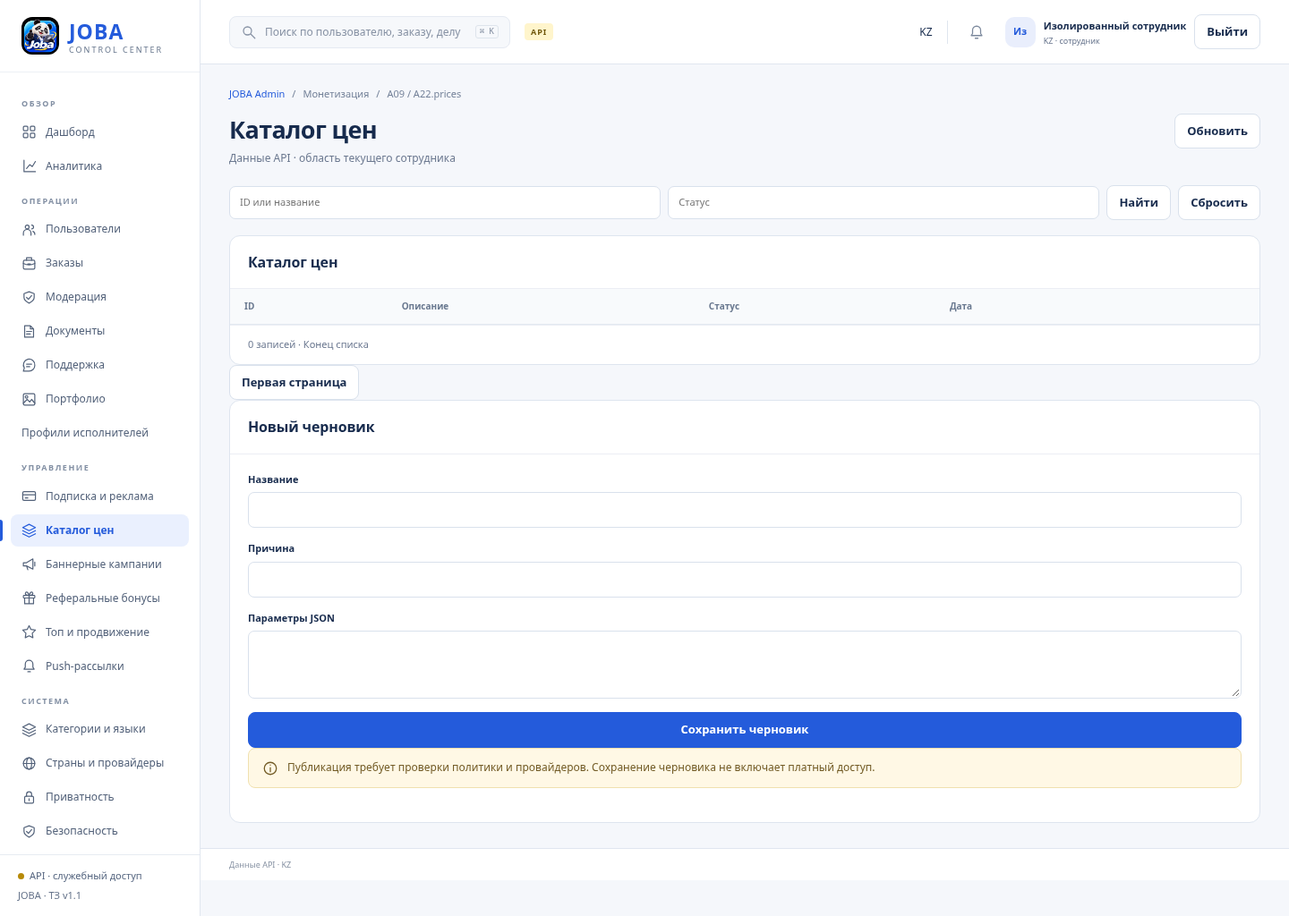
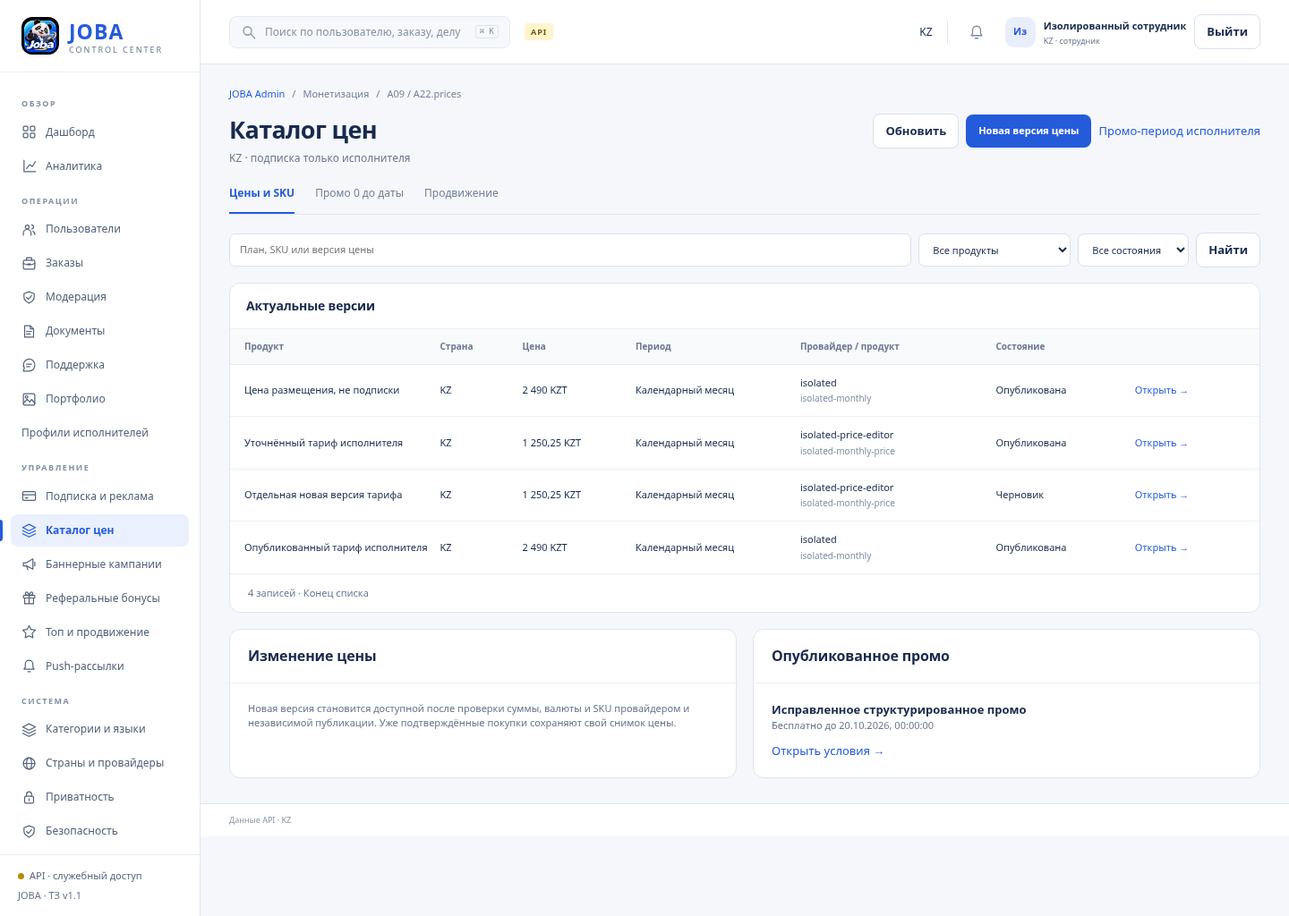
Implement structured price catalog with verified SKU and independent publication

diff --git a/apps/admin/price-workspace.js b/apps/admin/price-workspace.js
@@ -1,0 +1,24 @@
+const currencies={KZ:'KZT',KG:'KGS',RU:'RUB',BY:'BYN'},zones={KZ:'Asia/Almaty',KG:'Asia/Bishkek',RU:'Europe/Moscow',BY:'Europe/Minsk'},periods={week:'7 суток',month:'Календарный месяц',year:'Календарный год',days:'Число суток'},states={draft:'Черновик',effective:'Опубликована',superseded:'Заменена',stopped:'Остановлена'};
+export async function priceWorkspace({key,api,esc,card,note,tablecard,country,actorId,onRefresh}){
+ const params=new URLSearchParams(location.hash.split('?')[1]||''),data=await api('/admin/price-versions?'+new URLSearchParams({limit:'20',...Object.fromEntries(['cursor','q','status','product_type'].filter(k=>params.get(k)).map(k=>[k,params.get(k)]))}));
+ const promos=await api('/admin/promotions?status=effective&limit=1'),promo=promos.items[0];
+ const r=params.get('id')?(data.items.find(x=>x.id===params.get('id'))||await api('/admin/price-versions/'+encodeURIComponent(params.get('id')))):undefined,p=r?.payload||{},own=r?.owner===actorId&&r.status==='draft';
+ const input=(label,name,value,type='text',attrs='')=>`<div class="formfield"><label for="price-${name}">${label}</label><input id="price-${name}" name="${name}" value="${esc(value??'')}" type="${type}" ${attrs}></div>`;
+ const options=(name,values,value)=>`<select id="price-${name}" name="${name}">${Object.entries(values).map(([k,label])=>`<option value="${k}" ${value===k?'selected':''}>${label}</option>`).join('')}</select>`;
+ const command=r?`<form id="price-command" class="stack"><label for="price-action-reason">Основание действия</label><textarea id="price-action-reason" name="reason" minlength="10" maxlength="1000" required></textarea><div class="actions"><button value="validate">Проверить синхронизацию</button><button value="preview">Предпросмотр влияния</button>${r.status==='draft'?'<button value="publish" class="primary">Опубликовать другим сотрудником</button>':r.status==='effective'?'<button value="stop">Остановить продажи версии</button><button value="rollback">Черновик отката</button>':'<button value="rollback">Черновик отката</button>'}</div><div role="alert"></div><div role="status"></div></form>`:'';
+ const amountInput=amount=>Number.isSafeInteger(amount)&&amount>=0?`${Math.trunc(amount/100)}.${String(amount%100).padStart(2,'0')}`:'';
+ const money=x=>{if(!Number.isSafeInteger(x.amount_minor)||!Object.values(currencies).includes(x.currency))return 'Не задана';const symbol=new Intl.NumberFormat('ru',{style:'currency',currency:x.currency}).formatToParts(0).find(p=>p.type==='currency').value;return new Intl.NumberFormat('ru',{maximumFractionDigits:0}).format(Math.trunc(x.amount_minor/100))+(x.amount_minor%100?','+String(x.amount_minor%100).padStart(2,'0'):'')+' '+symbol;};
+ return {key,id:'A09 / A22.prices',title:'Каталог цен',subtitle:country+' · подписка только исполнителя'+(r?' · v'+r.version:''),section:'Монетизация',actions:'<button id="refresh-data">Обновить</button><a class="price-primary" href="#pricing?new=1">Новая версия цены</a><a class="btn" href="#promo">Промо-период исполнителя</a>',
+ body:()=>`<div class="tabs"><a class="active" href="#pricing">Цены и SKU</a><a href="#promo">Промо 0 до даты</a><a href="#boosts">Продвижение</a></div><form id="price-filter" class="filters"><input aria-label="Поиск цен" name="q" value="${esc(params.get('q')||'')}" placeholder="План, SKU или версия цены"><select aria-label="Тип продукта" name="product_type"><option value="">Все продукты</option><option value="subscription" ${params.get('product_type')==='subscription'?'selected':''}>Подписка исполнителя</option><option value="boost" ${params.get('product_type')==='boost'?'selected':''}>Продвижение</option></select><select aria-label="Состояние цены" name="status"><option value="">Все состояния</option>${Object.entries(states).map(([k,label])=>`<option value="${k}" ${params.get('status')===k?'selected':''}>${label}</option>`).join('')}</select><button>Найти</button></form>`+'<div class="price-list">'+tablecard('Актуальные версии',['Продукт','Страна','Цена','Период','Провайдер / продукт','Состояние',''],data.items.map(x=>[esc(x.title),esc(x.country),esc(money(x.payload)),esc(periods[x.payload.period]||'Не задан'),`${esc(x.payload.provider)}<span class="sub">${esc(x.payload.product_id)}</span>`,esc(states[x.status]||x.status),`<a href="#pricing?id=${encodeURIComponent(x.id)}">Открыть →</a>`]),'',`${data.items.length} записей · ${data.meta?.next_cursor?'Есть следующая страница':'Конец списка'}`)+'</div>'+(data.meta?.next_cursor?`<a class="btn" href="#pricing?${esc(new URLSearchParams({q:params.get('q')||'',status:params.get('status')||'',product_type:params.get('product_type')||'',cursor:data.meta.next_cursor}))}">Следующая страница</a>`:'')+(params.has('id')||params.has('new')?`<div class="grid split mt"><form id="price-editor" class="stack">${card(r?'Редактор версии':'Новый черновик цены',`<div class="formgrid">${input('Название','title',r?.title,'text','required minlength="3" maxlength="120"')}${input('Страна','country',country,'text','readonly')}<div class="formfield"><label for="price-product_type">Продукт</label>${options('product_type',{subscription:'Подписка исполнителя',boost:'Продвижение'},p.product_type||'subscription')}</div>${input('Доступ к продукту','role','Только исполнителю','text','readonly')}${input('Цена · '+currencies[country],'amount',amountInput(p.amount_minor),'text','required inputmode="decimal" pattern="[0-9]+([.,][0-9]{1,2})?"')}${input('Валюта','currency',currencies[country],'text','readonly')}<div class="formfield"><label for="price-period">Период</label>${options('period',periods,p.period||'month')}</div>${input('Суток в периоде','duration_days',p.duration_days||7,'number','min="1" max="366"')}${input('Платёжный провайдер','provider',p.provider,'text','required maxlength="120"')}${input('Идентификатор продукта / SKU','product_id',p.product_id,'text','required maxlength="120"')}${input('Часовой пояс','time_zone',zones[country],'text','readonly')}${input('Причина изменения','reason','','text','required minlength="5" maxlength="1000"')}</div><button class="primary">${own?'Сохранить черновик':'Создать новый черновик'}</button><div role="alert"></div>`)}</form><div class="stack">${note('Заказчики пользуются сервисом бесплатно. Подписка относится только к исполнителю. Продвижение — отдельный продукт.')}${card('Синхронизация',`<p>Сохранение не включает продажи. Сумма, валюта и идентификатор продукта должны быть подтверждены реальным провайдером.</p>${command||'<p class="tiny muted">Сначала сохраните черновик.</p>'}`)}${card('Влияние','<div id="price-impact">Проверка ещё не выполнена.</div>')}${note('Новая цена не меняет снимки уже подтверждённых покупок. Остановка версии не отзывает выданные права.','warn')}</div></div>`:`<div class="grid cols2 mt">${card('Изменение цены','<p class="tiny muted">Новая версия становится доступной после проверки суммы, валюты и SKU провайдером и независимой публикации. Уже подтверждённые покупки сохраняют свой снимок цены.</p>')}${card('Опубликованное промо',promo?`<b>${esc(promo.title)}</b><p class="tiny muted">${promo.preview?.promo_end_exclusive?'Бесплатно до '+esc(new Date(promo.preview.promo_end_exclusive).toLocaleString('ru',{timeZone:promo.payload.time_zone})):'Срок не рассчитан'}</p><a href="#promo?id=${encodeURIComponent(promo.id)}">Открыть условия →</a>`:'<p class="tiny muted">Опубликованных промо нет.</p><a href="#promo">Создать промо →</a>')}</div>`),
+ bind(){
+ document.getElementById('price-filter').onsubmit=e=>{e.preventDefault();location.hash='pricing?'+new URLSearchParams(new FormData(e.currentTarget));};
+ const form=document.getElementById('price-editor');if(!form)return;const commands=document.getElementById('price-command');let dirty=false;
+ const constrain=()=>{const subscription=form.elements.product_type.value==='subscription';form.elements.role.value=subscription?'Только исполнителю':'Заказчику или исполнителю';for(const option of form.elements.period.options)option.disabled=subscription&&['week','days'].includes(option.value);if(form.elements.period.selectedOptions[0].disabled)form.elements.period.value='month';form.elements.duration_days.disabled=form.elements.period.value!=='days';form.elements.duration_days.required=!form.elements.duration_days.disabled;};form.elements.product_type.onchange=constrain;form.elements.period.onchange=constrain;constrain();
+ form.oninput=e=>{if(commands&&e.target.name!=='reason'){dirty=true;commands.querySelectorAll('button').forEach(b=>b.disabled=true);commands.querySelector('[role=status]').textContent='Сохраните изменения перед проверкой.';}};
+ form.onsubmit=async e=>{e.preventDefault();const values=Object.fromEntries(new FormData(form)),parts=values.amount.replace(',','.').split('.'),amount_minor=Number(parts[0])*100+Number((parts[1]||'').padEnd(2,'0')),payload={product_type:values.product_type,amount_minor,currency:values.currency,provider:values.provider,product_id:values.product_id,period:values.period,time_zone:values.time_zone,...(values.period==='days'?{duration_days:Number(values.duration_days)}:{})};const controls=[...form.querySelectorAll('input,select,button')];controls.forEach(x=>x.disabled=true);form.querySelector('[role=alert]').textContent='';
+ try{const saved=await api('/admin/price-versions'+(own?'/'+r.id:''),own?'PATCH':'POST',{title:values.title,reason:values.reason,payload,...(own?{expected_version:r.version}:{})});if(params.get('id')===saved.id)await onRefresh();else location.hash='pricing?id='+encodeURIComponent(saved.id);}catch(error){form.querySelector('[role=alert]').textContent=error.message;controls.forEach(x=>x.disabled=false);constrain();}
+ };
+ if(commands)commands.onsubmit=async e=>{e.preventDefault();if(dirty)return;const action=e.submitter.value;commands.querySelectorAll('button').forEach(b=>b.disabled=true);commands.querySelector('[role=alert]').textContent='';try{const result=await api('/admin/price-versions/'+r.id+'/'+action,'POST',{expected_version:r.version,reason:new FormData(commands).get('reason')});if(['validate','preview'].includes(action)){commands.querySelector('[role=status]').textContent='Сохранённая версия проверена провайдером.';document.getElementById('price-impact').textContent=action==='preview'?`Страна ${result.country}; активных аккаунтов ${result.country_active_accounts}; версия ${result.source_version}. Предпросмотр не применяет цену.`:'Продукт, сумма и валюта подтверждены.';}else if(action==='rollback')location.hash='pricing?id='+encodeURIComponent(result.id);else await onRefresh();}catch(error){commands.querySelector('[role=alert]').textContent=error.message;}finally{if(!dirty)commands.querySelectorAll('button').forEach(b=>b.disabled=false);}};
+ }
+ };
+}

diff --git a/apps/admin/runtime.js b/apps/admin/runtime.js
@@ -1,3 +1,4 @@
+import {priceWorkspace} from './price-workspace.js';
 import {documentPolicyWorkspace} from './document-policy-workspace.js';
 import {bannerWorkspace} from './banner-workspace.js';
 import {promotionWorkspace} from './promotion-workspace.js';
@@ -19,7 +20,7 @@ const {routes,render,card,tablecard,field,note,metric,badge}=window.JOBA_ADMIN;
 const designMode=new URLSearchParams(location.search).has('design');
 const esc=v=>String(v??'').replace(/[&<>"']/g,c=>({'&':'&amp;','<':'&lt;','>':'&gt;','"':'&quot;',"'":'&#39;'}[c]));
 let session,loginDraft,cache={},error='',generation=0,disposeWorkspace;
-const privateWorkspaces=new Set([...pushRoutes,...scenarioRoutes,...userRoutes,'verificationPolicies','retention','campaigns','banner-detail','branding-build','boosts','boost-grant','analytics','dashboard','security','jobs','scheduled','job-detail','branding','countries','monetization','settings','legal']);
+const privateWorkspaces=new Set([...pushRoutes,...scenarioRoutes,...userRoutes,'prices','pricing','verificationPolicies','retention','campaigns','banner-detail','branding-build','boosts','boost-grant','analytics','dashboard','security','jobs','scheduled','job-detail','branding','countries','monetization','settings','legal']);
 const cursors={},filters={},configRoutes=new Set(['prices','pricing','monetization','push','referrals','dictionaries','dictionary','categories','ranking','placements','verificationPolicies','retention']);
 const sections={users:['users','Аккаунты'],orders:['orders','Заказы'],support:['support-threads','Поддержка'],'support-recovery':['recovery-threads','Восстановление доступа'],moderation:['cases','Дела'],portfolio:['portfolio','Портфолио'],contractors:['contractors','Профили исполнителей'],privacy:['privacy-requests','Запросы приватности'],blacklist:['blacklist','Черный список'],audit:['audit','Аудит'],prices:['price-versions','Цены'],monetization:['monetization-configs','Монетизация'],push:['push-campaigns','Рассылки'],referrals:['referral-campaigns','Реферальные кампании'],dictionaries:['moderation-dictionaries','Словари'],categories:['categories','Категории'],ranking:['ranking-configs','Рейтинг'],pricing:['price-versions','Каталог цен'],campaigns:['banner-campaigns','Кампании'],dictionary:['moderation-dictionaries','Запрещенные слова'],verification:['verifications','Проверка документов'],top100:['boost-reports','Топ и продвижение'],placements:['placement-policies','Размещения'],verificationPolicies:['verification-policies','Правила проверки'],retention:['retention-policies','Сроки хранения']};
 function clearStaffState(){
@@ -109,11 +110,11 @@ async function draw(reload=true) {
       if(key==='countries')routes[key]=await countryWorkspace({key,api:request,esc,card,note,badge,namedField,onRefresh:()=>draw()});
       if(['analytics','dashboard','security','jobs','scheduled','job-detail'].includes(key))routes[key]=await systemWorkspace({key,api:request,esc,card,tablecard,note,metric,badge,onRefresh:()=>draw()});
       if(key==='security')routes[key].actions+='<a class="btn" href="#security-full">Защищённый просмотр</a>';
-      if(sections[key]&&!pushRoutes.has(key)&&!['campaigns','verificationPolicies','retention'].includes(key))cache[key]=await request('/admin/'+sections[key][0]+'?'+new URLSearchParams({...filters[key],...(cursors[key]?{cursor:cursors[key]}:{})}));
+      if(sections[key]&&!pushRoutes.has(key)&&!['campaigns','verificationPolicies','retention','prices','pricing'].includes(key))cache[key]=await request('/admin/'+sections[key][0]+'?'+new URLSearchParams({...filters[key],...(cursors[key]?{cursor:cursors[key]}:{})}));
       if(['verificationPolicies','retention'].includes(key))routes[key]=await documentPolicyWorkspace({key,api:request,esc,card,note,tablecard,country:session.user.country,actorId:session.user.id,onRefresh:()=>draw()});
       if(['campaigns','banner-detail'].includes(key))routes[key]=await bannerWorkspace({key,api:request,files:{upload:async file=>{if(g!==generation)throw Error('Экран изменился');const result=await api.upload(file,'banner');if(g!==generation)throw Error('Экран изменился');return result;},download:async path=>{if(g!==generation)throw Error('Экран изменился');const result=await api.download(path);if(g!==generation)throw Error('Экран изменился');return result;}},esc,card,note,tablecard,country:session.user.country,actorId:session.user.id,onRefresh:()=>draw()});
       if(['promo','promo-preview'].includes(key))routes[key]=await promotionWorkspace({key,api:request,esc,card,note,tablecard,country:session.user.country,actorId:session.user.id,onRefresh:()=>draw()});
-      if(['pricing','prices'].includes(key))routes[key].actions='<a class="btn primary" href="#promo">Промо-период исполнителя</a>';
+      if(['pricing','prices'].includes(key))routes[key]=await priceWorkspace({key,api:request,esc,card,note,tablecard,country:session.user.country,actorId:session.user.id,onRefresh:()=>draw()});
       if(key==='monetization')routes[key]=await monetizationWorkspace({key,api:request,esc,card,note,metric,badge,namedField,onRefresh:()=>draw()});
       if(['settings','legal'].includes(key)||key.startsWith('recovery-live/'))routes[key]=await operationsWorkspace({key,api:request,esc,card,note,namedField,onRefresh:()=>draw()});
       if(userRoutes.has(key)||key.startsWith('record-live/users/'))routes[key]=await userWorkspace({key,api:request,esc,card,tablecard,note,badge,namedField,sections,onRefresh:()=>draw()});

diff --git a/services/api/src/marketplace.ts b/services/api/src/marketplace.ts
@@ -1,3 +1,4 @@
+import {pricePayload} from './price-payload';
 import {countryEnabled} from './country-access';
 import {bannerCampaigns} from './banner-campaigns';
 import {accountRestrictionJobs} from './account-restriction-jobs';
@@ -1277,8 +1278,14 @@ export class Marketplace {
       const configKinds=['monetization-configs','price-versions','categories','push-campaigns','referral-campaigns','moderation-dictionaries','ranking-configs','promotions','placement-policies','verification-policies','retention-policies','country-controls'];
       if(configKinds.includes(section)&&method==='POST'&&path.split('/').length===3) {
         if(section==='moderation-dictionaries'){try{validateRules(b.payload?.rules);}catch(e:any){fail(400,'VALIDATION_ERROR',e.message);}}
-        const r=this.record(kinds[section],a,{title:text(b,'title',3,120),status:'draft',payload:section==='push-campaigns'?normalizePushPayload(b.payload??{}):section==='promotions'?normalizePromotionPayload(b.payload??{}):b.payload??{}});
+        const r=this.record(kinds[section],a,{title:text(b,'title',3,120),status:'draft',payload:section==='price-versions'?pricePayload(b.payload,a.country):section==='push-campaigns'?normalizePushPayload(b.payload??{}):section==='promotions'?normalizePromotionPayload(b.payload??{}):b.payload??{}});
         await this.store.put(r);await this.audit(a,section+'.draft',r.id,text(b,'reason',5,1000));return r;
+      }
+      const editPrice=path.match(/^\/admin\/price-versions\/([^/]+)$/);
+      if(editPrice&&['GET','PATCH'].includes(method)){
+        const r=await this.object(editPrice[1],a,'price_version');if(method==='GET')return r;
+        this.version(r,b);if(r.owner!==a.id||r.status!=='draft')fail(409,'STATE_CONFLICT','Создайте новую версию цены');
+        const result=await this.store.put({...r,title:text(b,'title',3,120),payload:pricePayload(b.payload,a.country),preview:undefined,version:r.version+1});await this.audit(a,'prices.edited',r.id,text(b,'reason',5,1000));return result;
       }
       const editDocumentPolicy=path.match(/^\/admin\/(verification-policies|retention-policies)\/([^/]+)$/);
       if(editDocumentPolicy&&['GET','PATCH'].includes(method)){
@@ -1358,7 +1365,7 @@ export class Marketplace {
       if(configurationCommand&&configKinds.includes(section)&&method==='POST') {
         const r=await this.object(configurationCommand[2],a,kinds[section]);
         if(configurationCommand[3]==='preview'){this.version(r,b);const reason=text(b,'reason',10,1000);const preview=await this.configuration.preview(r);await this.audit(a,'configuration.preview',r.id,reason);return preview;}
-        if(configurationCommand[3]==='validate'){if(['verification_policy','retention_policy'].includes(r.kind))this.version(r,b);return this.configuration.validate(r);}
+        if(configurationCommand[3]==='validate'){if(['verification_policy','retention_policy','price_version'].includes(r.kind))this.version(r,b);const result=await this.configuration.validate(r);if(r.kind==='price_version')await this.audit(a,'prices.validated',r.id,text(b,'reason',10,1000));return result;}
         const result=await this.configuration.publish(r,a.id,b.expected_version);await this.audit(a,section+'.published',r.id,text(b,'reason',10,1000));return result;
       }
       const configurationStop=path.match(/^\/admin\/([^/]+)\/([^/]+)\/(stop|cancel|rollback)$/);
@@ -1414,7 +1421,7 @@ export class Marketplace {
   }
   private async list(items:any[],q:any) {
     const limit=this.pageLimit(q),after=await this.cursor(q);
-    const filtered=items.filter(x=>(!after||x.id>after)&&(!q.status||x.status===q.status)&&(!q.order_id||x.order_id===q.order_id)&&(!q.city||x.city===q.city)&&(!q.category_id||x.category_id===q.category_id)&&(!q.q||[x.id,x.title,x.display_name,x.subject,x.action,x.reason,x.type,x.event].filter(Boolean).join(' ').toLowerCase().includes(String(q.q).toLowerCase()))).sort((a,b)=>a.id.localeCompare(b.id));
+    const filtered=items.filter(x=>(!after||x.id>after)&&(!q.status||x.status===q.status)&&(!q.product_type||x.payload?.product_type===q.product_type)&&(!q.order_id||x.order_id===q.order_id)&&(!q.city||x.city===q.city)&&(!q.category_id||x.category_id===q.category_id)&&(!q.q||[x.id,x.title,x.display_name,x.subject,x.action,x.reason,x.type,x.event,x.payload?.product_id,x.payload?.provider].filter(Boolean).join(' ').toLowerCase().includes(String(q.q).toLowerCase()))).sort((a,b)=>a.id.localeCompare(b.id));
     const page=filtered.slice(0,limit);return {items:page,meta:{next_cursor:filtered.length>limit?await this.nextCursor(page.at(-1).id,q):null,total:filtered.length}};
   }
   private async messages(c:RecordData,a:Actor,method:string,b:any,q:any,kind:string) {

diff --git a/services/api/src/price-payload.ts b/services/api/src/price-payload.ts
@@ -1,0 +1,16 @@
+import {HttpException} from '@nestjs/common';
+const invalid=(message:string):never=>{throw new HttpException({error:{code:'VALIDATION_ERROR',message,details:{},retryable:false}},422);};
+const currencies:Record<string,string>={KZ:'KZT',KG:'KGS',RU:'RUB',BY:'BYN'};
+const zones:Record<string,string>={KZ:'Asia/Almaty',KG:'Asia/Bishkek',RU:'Europe/Moscow',BY:'Europe/Minsk'};
+export function pricePayload(value:any,country:string){
+ const p=value??{};
+ if(!currencies[country])invalid('Страна не поддерживается');
+ if(!['subscription','boost'].includes(p.product_type))invalid('Выберите подписку исполнителя или продвижение');
+ if(p.currency!==currencies[country]||!Number.isSafeInteger(p.amount_minor)||p.amount_minor<0)invalid('Проверьте сумму и валюту страны');
+ for(const name of ['provider','product_id'])if(typeof p[name]!=='string'||!p[name].trim()||p[name].length>120)invalid('Укажите провайдера и идентификатор продукта');
+ if(!(p.product_type==='subscription'?['month','year']:['week','month','year','days']).includes(p.period))invalid('Выберите поддерживаемый период');
+ if(p.period==='days'&&(!Number.isInteger(p.duration_days)||p.duration_days<1||p.duration_days>366))invalid('Укажите от 1 до 366 суток');
+ if(p.time_zone!==zones[country])invalid('Часовой пояс должен соответствовать стране цены');
+ if(p.role!==undefined&&p.role!==(p.product_type==='subscription'?'executor':'all'))invalid('Подписка доступна только исполнителю');
+ return {product_type:p.product_type,provider:p.provider.trim(),product_id:p.product_id.trim(),amount_minor:p.amount_minor,currency:p.currency,period:p.period,time_zone:p.time_zone,role:p.product_type==='subscription'?'executor':'all',...(p.period==='days'?{duration_days:p.duration_days}:{})};
+}

diff --git a/services/api/src/configuration.ts b/services/api/src/configuration.ts
@@ -1,3 +1,4 @@
+import {pricePayload} from './price-payload';
 import {validatePushCampaign} from './push-campaigns';
 import {rankingParameters} from './ranking';
 import { Temporal } from '@js-temporal/polyfill';
@@ -23,10 +24,11 @@ export class Configuration {
       if(typeof p.registration_enabled!=='boolean'||typeof p.stop_new_business!=='boolean')fail('VALIDATION_ERROR','Укажите состояние регистрации и новых действий');
     }
     if(r.kind==='price_version') {
+      pricePayload(p,r.country);
       if(!Number.isSafeInteger(p.amount_minor)||p.amount_minor<0||!['KZT','KGS','RUB','BYN'].includes(p.currency))fail('VALIDATION_ERROR','Проверьте цену и валюту');
       const provider=this.providers.billing.get(p.provider);if(!provider)fail('PROVIDER_UNAVAILABLE','Сначала подключите платёжного провайдера',503);
       const product=await provider.validateProduct(p.product_id,r.country);
-      if(product.currency!==p.currency||product.amount_minor!==p.amount_minor)fail('PRICE_MISMATCH','Цена не синхронизирована с провайдером');
+      if(product.product_id!==p.product_id||product.currency!==p.currency||product.amount_minor!==p.amount_minor)fail('PRICE_MISMATCH','Цена не синхронизирована с провайдером');
       return {provider_verified:true};
     }
     if(r.kind==='monetization_config') {

diff --git a/apps/admin/styles.css b/apps/admin/styles.css
@@ -15,3 +15,5 @@
 .banner-layout{margin-top:48px}.banner-layout .cardhead{padding:15px 18px}.banner-layout .cardhead h2{font-size:14px}.banner-layout .cardbody{padding:16px 18px}.banner-layout .formfield input,.banner-layout .formfield select{font-size:11px}.banner-layout .formgrid{gap:17px 12px}.banner-layout .formfield{gap:5px}.banner-upload .btn{display:inline-block;cursor:pointer;border:1px solid #D9E1EC;background:white;border-radius:7px;padding:7px 10px;font-size:10px;font-weight:700}.banner-upload button{font-size:10px;padding:7px 10px}.banner-upload #banner-filename{display:block;margin:6px;overflow-wrap:anywhere}.banner-upload b{margin-bottom:5px}.banner-upload .tiny{font-size:10px}.banner-layout .stack{gap:14px}@media(max-width:850px){.banner-layout{margin-top:24px}}
 
 #document-policy-editor input[type=checkbox]{width:auto;margin-right:6px}
+
+.price-primary{display:inline-flex;align-items:center;padding:10px 14px;background:#245BDB;color:white;border-radius:8px;font-size:11px;font-weight:700}.price-list table{table-layout:fixed}.price-list th:nth-child(1){width:19%}.price-list th:nth-child(2){width:8%}.price-list th:nth-child(3){width:11%}.price-list th:nth-child(4){width:16%}.price-list th:nth-child(5){width:19%}.price-list td{overflow-wrap:anywhere}.price-list .cardhead{padding:15px 18px}.price-list .cardhead h2{font-size:14px}

diff --git a/services/api/src/commerce.ts b/services/api/src/commerce.ts
@@ -9,7 +9,7 @@ export class Commerce {
   private record(kind:string,owner:string,country:string,data:any):RecordData {return {...data,id:randomUUID(),kind,owner,country,version:1,created_at:new Date().toISOString()};}
   async offers(country:string) {
     const prices=(await this.store.all('price_version',country)).filter(p=>p.status==='effective');
-    return {items:prices.filter(p=>this.providers.billing.has(p.payload.provider)).map(p=>({id:p.id,...p.payload}))};
+    return {items:prices.filter(p=>p.payload.product_type!=='boost'&&this.providers.billing.has(p.payload.provider)).map(p=>({id:p.id,...p.payload}))};
   }
   async verify(owner:string,country:string,providerName:string,reference:string) {
     const provider=this.providers.billing.get(providerName);if(!provider)fail('PROVIDER_UNAVAILABLE','Платёжный провайдер ещё не подключён');

diff --git a/docs/price-editor-update.md b/docs/price-editor-update.md
@@ -1,0 +1,15 @@
+# Каталог цен с отдельными полями
+
+Часть блока 5: маршруты `pricing` и `prices` используют структурированную форму вместо JSON. Доступ — сотрудники с billing и MFA, в своей стране.
+
+Поля: название, подписка исполнителя / продвижение, сумма в валюте страны (KZT/KGS/RUB/BYN), календарный месяц/год для подписки; 7 суток, месяц, год или 1–366 суток для продвижения; провайдер, SKU и часовой пояс страны. Сумма сохраняется целым числом минимальных денежных единиц. Роль подписки задаётся сервером как executor; платного доступа заказчика эта форма не создаёт.
+
+Собственный черновик можно изменить с `expected_version`; чужая или опубликованная версия сохраняется как новый черновик. Есть список и выбор версии по ID, проверка синхронизации, предпросмотр, независимая публикация, остановка и черновик отката. Несохранённые изменения блокируют команды. Сохранение не включает продажи.
+
+Публикация требует реального ответа провайдера с совпадением **SKU, суммы и валюты**. Отсутствующий провайдер не заменяется успешной синхронизацией. Тестовые адаптеры используются только в изолированных тестах. Остановка версии не изменяет уже подтверждённые покупки или права. Из списка предложений подписки исключены продукты продвижения.
+
+Остаются: визуальная приёмка A09/A22.prices, остальные формы блока 5, отдельные правила коммерческого изменения цен для существующих когорт и подключение реального провайдера. UI не выдаёт эти правила за реализованные. Изменения не развёрнуты на сервере.
+
+Основной экран показывает действительную таблицу, фильтры состояния/продукта, поиск по названию, ID, SKU и провайдеру и действительное опубликованное промо. Форма открывается при создании или выборе версии. Таблица не объявляет ответы API демонстрационными данными. Проверка синхронизации сохранённой версии фиксируется в audit с причиной сотрудника.
+
+Проверено 16.10.2026: все workspace-сборки прошли; полный прогон API — **87 passed, 0 failed**. Браузерный сценарий проверил точную сумму, редактирование того же черновика, блокировку команд после изменения полей, реальный отказ без провайдера, независимую публикацию, отдельную новую версию, поиск SKU и совместное применение фильтров продукта/состояния. Экспортированы 72 административных/публичных состояния без ошибок маршрутов. A09/A22.prices повторно снят и просмотрен рядом с макетом; диагностическое отличие 0.105596, визуальная приёмка pending. Число не является процентом готовности. Мобильный код не менялся; мобильные тесты повторно не запускались.

diff --git a/docs/project-readiness.md b/docs/project-readiness.md
@@ -6,6 +6,8 @@
 
 ## Выполнено на текущем этапе
 
+- Каталог цен использует отдельные поля, версии, поиск по SKU/провайдеру и фильтры. Публикация требует совпадения SKU, суммы и валюты у реального провайдера и другого сотрудника. Подписка — только исполнителю; продукты продвижения исключены из её предложений. См. [детали](price-editor-update.md).
+
 - По поручению владельца Сербия заменена на Кыргызстан (KG/KGS/+996/Asia/Bishkek). Все четыре страны включены в production-конфигурацию общего хоста; исправлен общий API release-клиента. Проверены регистрация/вход по странам и выбор каждой страны в release web. Это ещё не обновление сервера. См. [детали](kyrgyzstan-update.md).
 
 - Политики проверки и хранения документов получили структурированные поля, собственные черновики с expected_version, правовое основание страны, предпросмотр и независимую публикацию. Это не закрывает полный purge и сроки других категорий. См. [детали](document-policy-editor-update.md).

diff --git a/docs/completion-plan.md b/docs/completion-plan.md
@@ -32,7 +32,7 @@
 
 ## 5. Структурированные формы админки
 
-Статус: в работе. Формы правил проверки и хранения документов реализованы; остальные формы и визуальная приёмка открыты. См. `document-policy-editor-update.md`.
+Статус: в работе. Формы правил проверки, хранения документов и каталога цен реализованы; остальные формы и визуальная приёмка открыты. См. `document-policy-editor-update.md` и `price-editor-update.md`.
 
 Условие завершения: Для каждой формы поля, ограничения, сохранение, конфликт и права.
 
